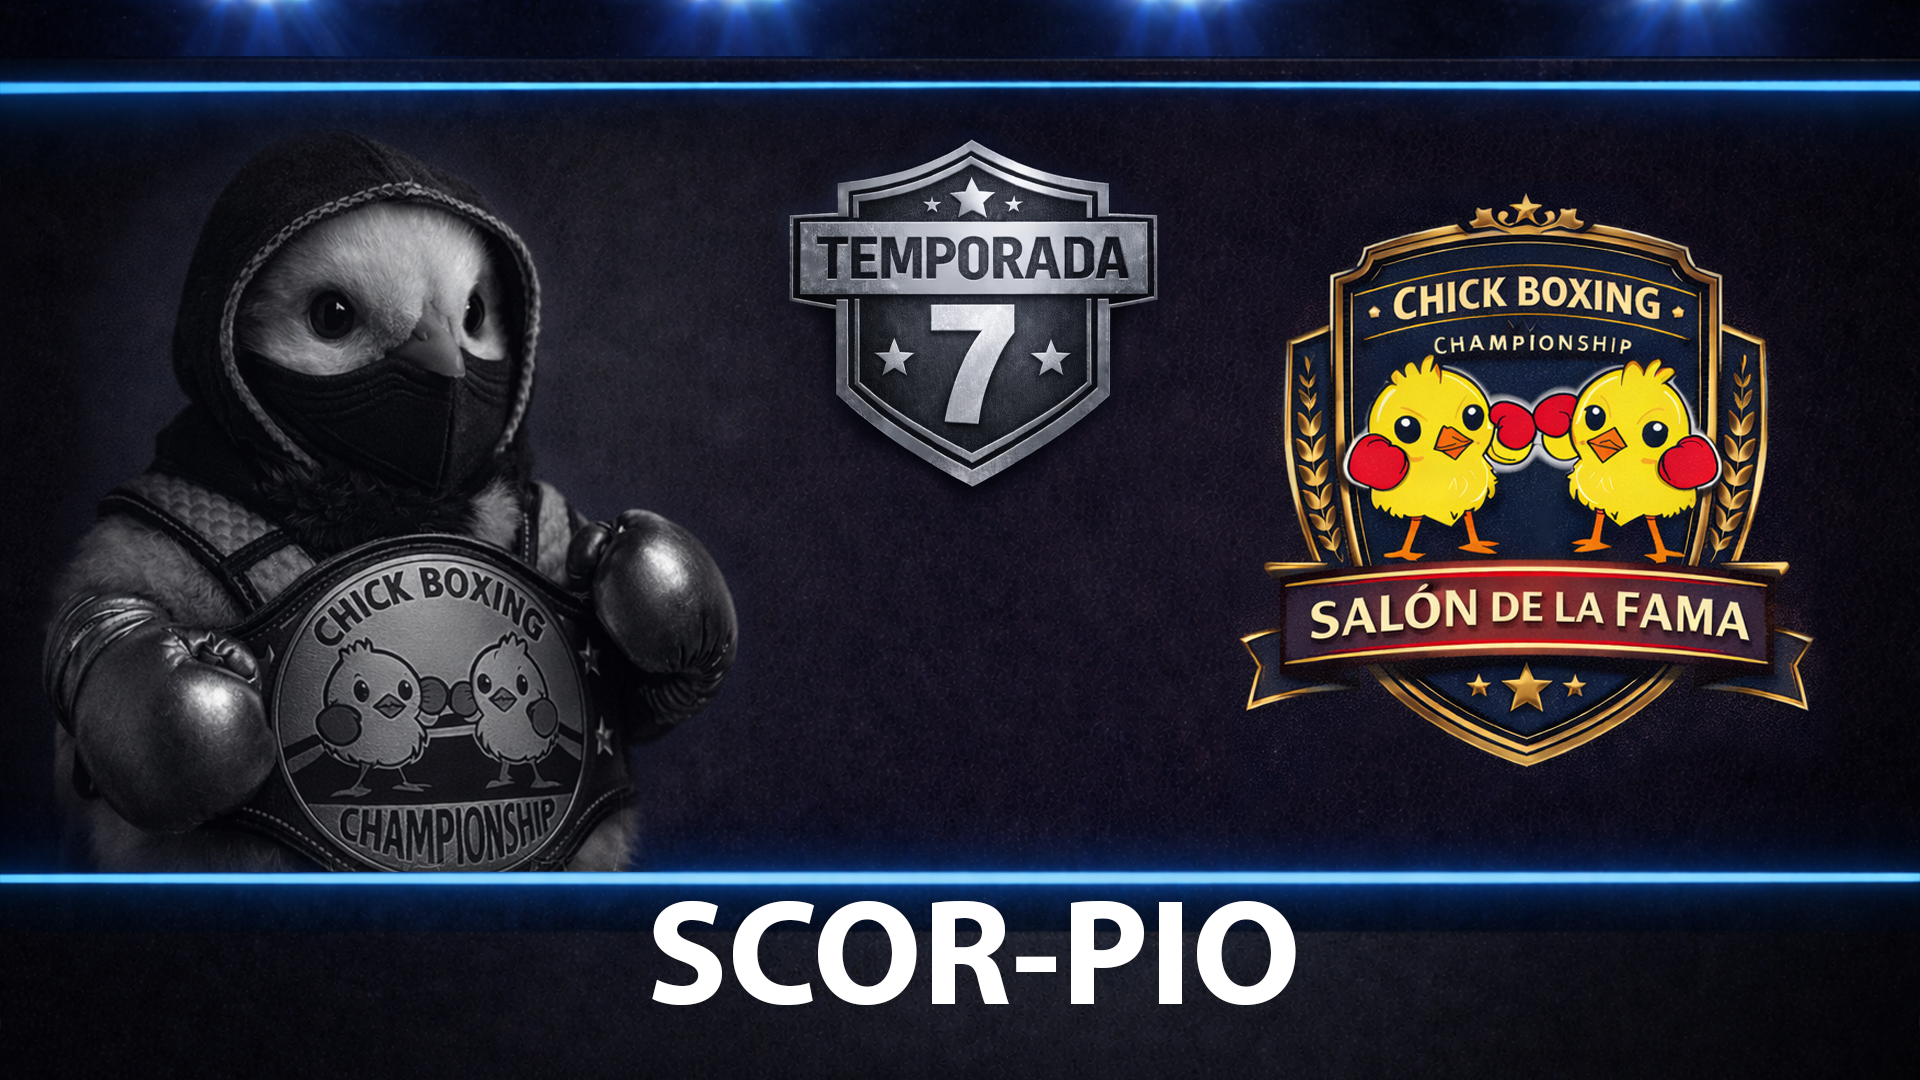
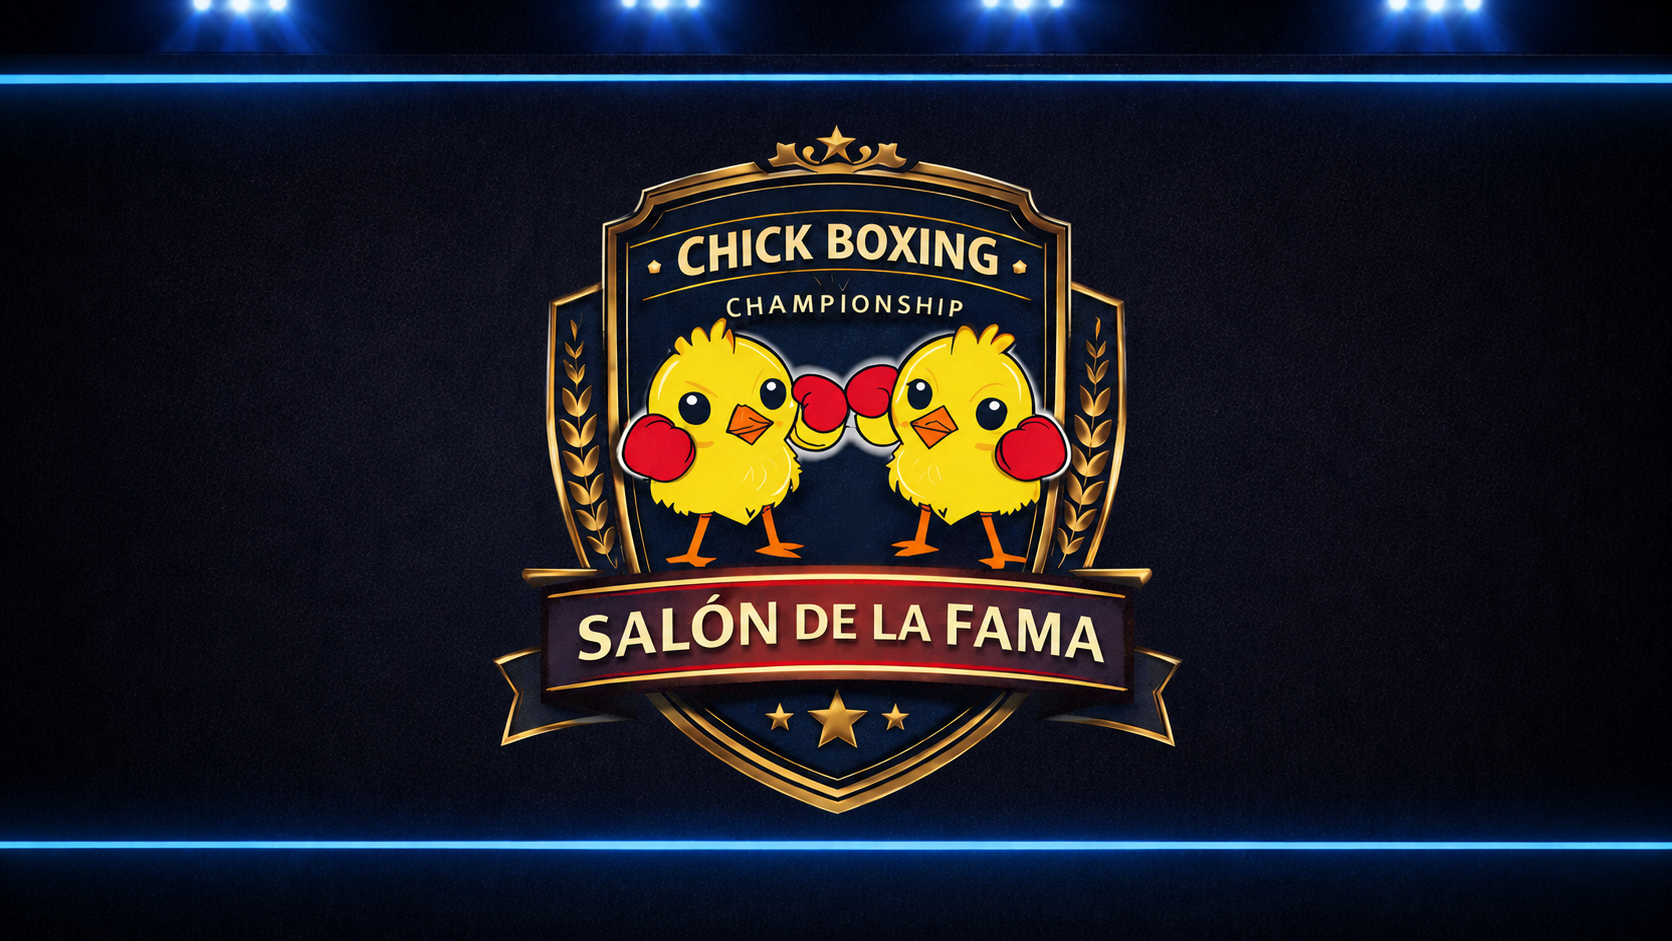
act campeon tem8

diff --git a/src/pages/Chickboxing/ChickboxingPage.jsx b/src/pages/Chickboxing/ChickboxingPage.jsx
@@ -8,6 +8,7 @@ import s4 from '../../assets/programs/champions/s4_cartolopollo.png'
 import s5 from '../../assets/programs/champions/s5_pollon_wick.png'
 import s6 from '../../assets/programs/champions/s6_rougazanma.png'
 import s7 from '../../assets/programs/champions/s7_scor-pio.png'
+import s8 from '../../assets/programs/champions/s8_lazaro_capaldi.png'
 import './ChickboxingPage.css'
 
 const CHAMPIONS = [
@@ -18,6 +19,7 @@ const CHAMPIONS = [
   { season: 5, name: 'Pollon Wick',    img: s5 },
   { season: 6, name: 'Rougazanma',     img: s6 },
   { season: 7, name: 'Scor-Pio',       img: s7 },
+  { season: 7, name: 'Lazaro Capaldi', img: s8 },
 ]
 
 export default function ChickboxingPage() {